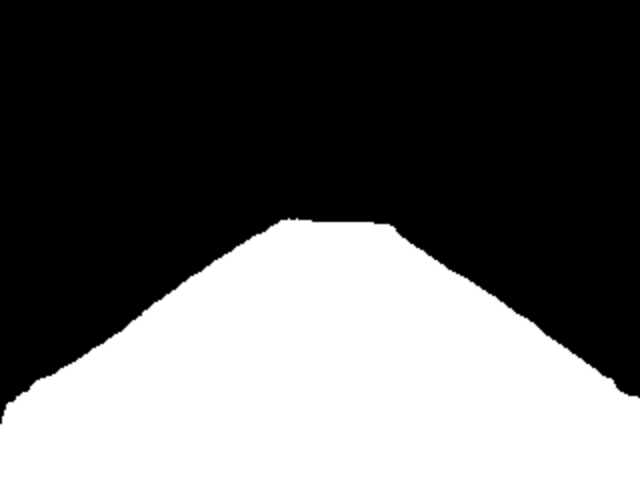
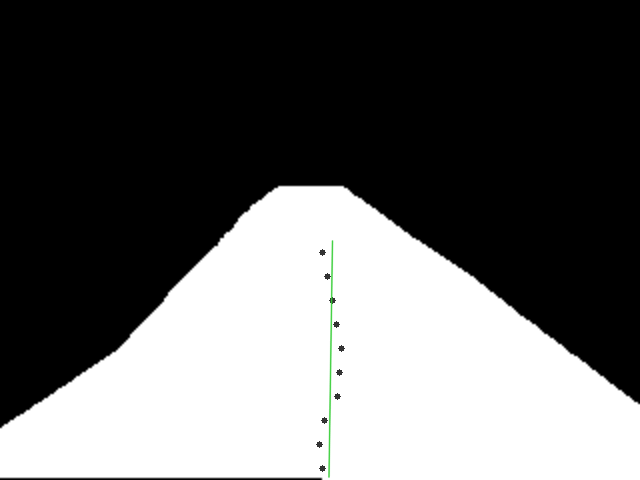
line fitting for vision part

diff --git a/src/orchards_hilly_nav.cpp b/src/orchards_hilly_nav.cpp
@@ -33,37 +33,82 @@ class HillyNav{
     // void scanCallback(const sensor_msgs::LaserScan::ConstPtr &scan_msg);
     void findCentroids(cv::Mat img);
     void Controller();
+    void bestApproximate(cv::Mat seg_img, std::vector<int> centroids_x,std::vector<int> centroids_y);
+
 
     // // private:
     // pcl::PointCloud<pcl::PointXYZI> ptcloud_pcl;
 
 };
 
+template <typename T>
+std::vector<T> linspace(T a, T b, size_t N) {
+    T h = (b - a) / static_cast<T>(N-1);
+    std::vector<T> xs(N);
+    typename std::vector<T>::iterator x;
+    T val;
+    for (x = xs.begin(), val = a; x != xs.end(); ++x, val += h)
+        *x = val;
+    return xs;
+}
+
+// function to calculate m and c that best fit points
+// represented by x[] and y[]
+void HillyNav::bestApproximate(cv::Mat seg_img, std::vector<int> centroids_x,std::vector<int> centroids_y)
+{
+    float a, b, m, c, sum_x = 0, sum_y = 0, sum_xy = 0, sum_x2 = 0;
+    int n = centroids_x.size();
+    for (int i = 0; i < centroids_x.size(); i++) {
+        sum_x += centroids_x[i];
+        sum_y += centroids_y[i];
+        sum_xy += centroids_x[i] * centroids_y[i];
+        sum_x2 += pow(centroids_x[i], 2);
+    }
+
+    a = (n * sum_xy - sum_x * sum_y) / (n * sum_x2 - pow(sum_x, 2)); //calculate slope
+    // c = (sum_y - m * sum_x) / n;
+    b = (sum_x2*sum_y-sum_x*sum_xy)/(sum_x2*n-sum_x*sum_x);  //calculate intercept
+
+    std::vector<int> fit_x;
+    // std::vector<int> plotyc = linspace(seg_img.rows/2, seg_img.rows-1, seg_img.rows/2);
+    cv::cvtColor(seg_img,seg_img,CV_GRAY2BGR);
+    for(int i=0;i<centroids_x.size();i++){
+      fit_x.push_back(a*centroids_x[i]+b);
+    }
+
+    cv::line(seg_img, cv::Point(fit_x[0], centroids_x[0]),cv::Point(fit_x[centroids_x.size()-1], centroids_x[centroids_x.size()-1]), cv::Scalar(51, 204, 51),1, CV_AA);
+
+    cv::imwrite("test.png",seg_img);
+
+    std::cout << "m =" << m;
+    std::cout << "\nc =" << c;
+}
+
 //*************************************************************************************************
 void HillyNav::findCentroids(cv::Mat img){
 
-  // cv::Mat locations;
-  // cv::findNonZero(img, locations);
-  // std::cout << locations.total() << std::endl;
-  // for (int c_r = 0; c_r < locations.total(); c_r++){
-  //   // std::cout << "Zero#" << c_r << ": " << locations.at<cv::Point>(c_r).x << ", " << locations.at<cv::Point>(c_r).y << std::endl;
-  //   cv::Point pnt = locations.at<cv::Point>(c_r);
-  //   // if nonzero_x.size()!=0:
-  //       //centerline_arr[c_r] = int(np.mean(nonzero_x))
-  //       // cv::circle(img, (int(centerline_arr[c_r]), c_r), 5, (0, 0, 255), -1)
-  // }
-  int tmp = (img.cols/2)/10;
-  for (int c_r = 0; c_r < 5; c_r++){
-    cv::Mat topROI = img[0, (img.rows/2)+((c_r-1)*tmp), img.cols, (img.rows/2)+(c_r*tmp));
+  int hori_strips = 10;
+  int tmp = (img.rows/2)/hori_strips;
+  std::vector<int> pts_x, pts_y;
 
-    cv::Scalar center = cv::mean(topROI);
+  for (int c_r = 0; c_r < hori_strips; c_r++){
 
-    cv::circle(topROI, cv::Point(center[0], center[1]),3, Scalar(51, 204, 51),CV_FILLED, 8,0);
+    cv::Mat topROI = img(cv::Range((img.rows/2)+((c_r)*tmp), (img.rows/2)+((c_r+1)*tmp)),cv::Range(0, img.cols));
+    cv::Mat white_pixels;
 
-    cv::imwrite("test.png",topROI);
+    cv::findNonZero(topROI, white_pixels);
+    if ((white_pixels.total())>0) {
+      cv::Scalar center = cv::mean(white_pixels);
+      std::cout <<  center << std::endl;
+
+      cv::circle(img, cv::Point(center[0], ((img.rows/2)+((c_r)*tmp)+(img.rows/2)+((c_r+1)*tmp))/2),3, cv::Scalar(51, 204, 51),CV_FILLED, 8,0);
+      pts_x.push_back(center[0]);
+      pts_y.push_back((img.rows/2)+((c_r+(c_r+1)/2)*tmp));
+    }
 
   }
 
+  bestApproximate(img, pts_y, pts_x);
 
 
 }
